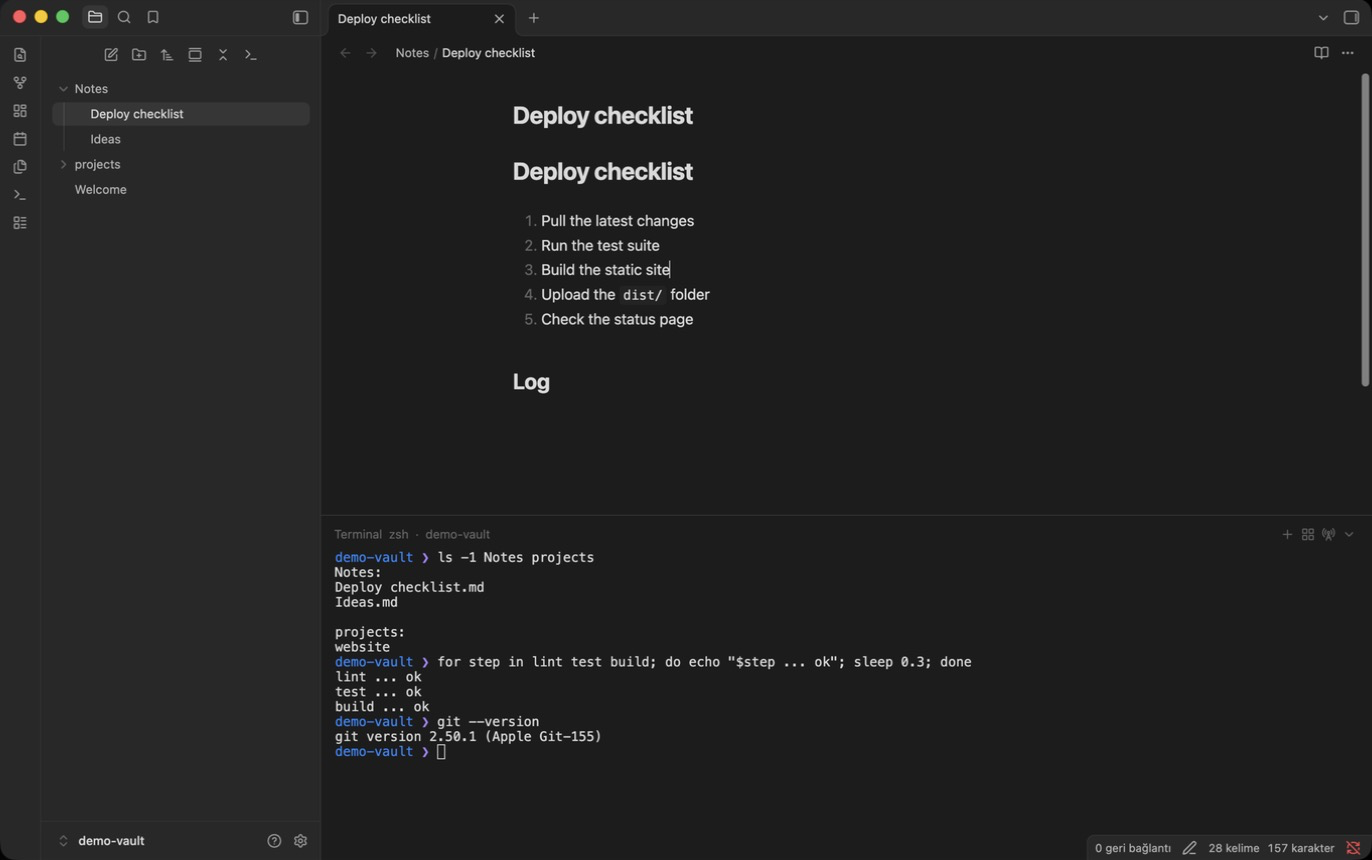
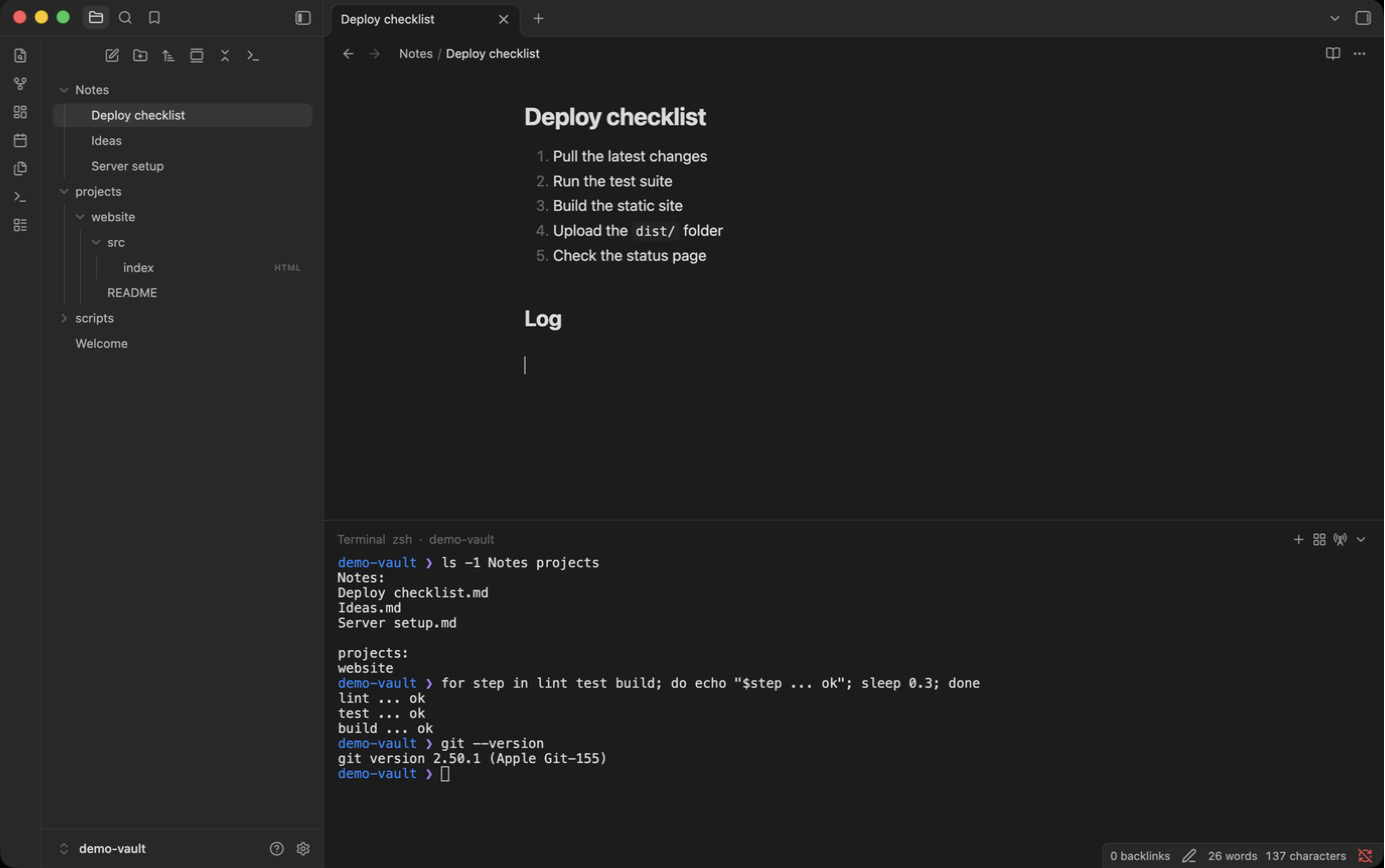
Show no default shortcut in labels, English screenshots
Labels and the settings help no longer claim Cmd/Ctrl+J since the plugin
sets no default hotkeys.

diff --git a/src/main.js b/src/main.js
@@ -44,7 +44,7 @@ const STRINGS = {
     "toolbar.new": "New terminal ({key})",
     "toolbar.layout": "Layout",
     "toolbar.close": "Close terminals",
-    "toolbar.hide": "Hide terminal ({key})",
+    "toolbar.hide": "Hide terminal",
     "toolbar.sessions": "Terminal  ·  {n} sessions",
     "tile.new": "New terminal",
     "common.broadcast": "Type into all terminals (MultiExec)",
@@ -74,8 +74,8 @@ const STRINGS = {
     "nav.button": "Terminal (right-click: Terminal Panel)",
     "nav.panel": "Terminal Panel (full-screen tab)",
     "menu.newKey": "New terminal  {key}",
-    "nav.hideKey": "Hide terminal  {key}",
-    "nav.showKey": "Show terminal  {key}",
+    "nav.hideKey": "Hide terminal",
+    "nav.showKey": "Show terminal",
     "nav.newInVault": "New terminal in vault folder",
     "common.moveBottom": "Move to bottom",
     "common.moveRight": "Move to right",
@@ -141,8 +141,8 @@ const STRINGS = {
     "set.optionMeta": "Use Option as Meta",
     "set.optionMetaDesc": "When off, Option types special/accented characters and ⌥←/→ jumps by word. When on, Option acts as an emacs-style Meta key.",
     "set.scrollback": "Scrollback lines",
-    "set.helpMac": "Cmd+J show/hide, Cmd+Shift+J move between right/bottom. Cmd+D new terminal (added to the grid), ⌥⌘+arrow switch between terminals, Ctrl-D closes that terminal. Drag the dividers to resize, double-click to equalize. ⌘F search, ⌘K clear screen, ⌘+click opens a link. ⌥←/→ word, ⌘←/→ start/end of line, ⌘⌫ deletes the line. Right-click for the menu.",
-    "set.helpOther": "Ctrl+J show/hide, Ctrl+Shift+J move between right/bottom. Ctrl+Shift+D new terminal (added to the grid), Alt+arrow switch between terminals. Ctrl+Shift+C copy, {paste} paste, Ctrl+Shift+F search, Ctrl+Shift+K clear screen, Ctrl+Shift+P command palette. While the terminal has focus, other Ctrl keys go to the shell. Ctrl+click opens a link. Right-click for the menu.",
+    "set.helpMac": "Give \"Show / hide terminal\" and \"Move terminal\" a hotkey under Settings > Hotkeys (for example Cmd+J and Cmd+Shift+J). Cmd+D new terminal (added to the grid), ⌥⌘+arrow switch between terminals, Ctrl-D closes that terminal. Drag the dividers to resize, double-click to equalize. ⌘F search, ⌘K clear screen, ⌘+click opens a link. ⌥←/→ word, ⌘←/→ start/end of line, ⌘⌫ deletes the line. Right-click for the menu.",
+    "set.helpOther": "Give \"Show / hide terminal\" and \"Move terminal\" a hotkey under Settings > Hotkeys (for example Ctrl+J and Ctrl+Shift+J). Ctrl+Shift+D new terminal (added to the grid), Alt+arrow switch between terminals. Ctrl+Shift+C copy, {paste} paste, Ctrl+Shift+F search, Ctrl+Shift+K clear screen, Ctrl+Shift+P command palette. While the terminal has focus, other Ctrl keys go to the shell. Ctrl+click opens a link. Right-click for the menu.",
   },
   tr: {
     "common.language": "Dil",
@@ -181,7 +181,7 @@ const STRINGS = {
     "toolbar.new": "Yeni terminal ({key})",
     "toolbar.layout": "Düzen",
     "toolbar.close": "Terminalleri kapat",
-    "toolbar.hide": "Terminali gizle ({key})",
+    "toolbar.hide": "Terminali gizle",
     "toolbar.sessions": "Terminal  ·  {n} oturum",
     "tile.new": "Yeni terminal",
     "common.broadcast": "Tüm terminallere yaz (MultiExec)",
@@ -211,8 +211,8 @@ const STRINGS = {
     "nav.button": "Terminal (sağ tık: Terminal Paneli)",
     "nav.panel": "Terminal Paneli (tam ekran sekme)",
     "menu.newKey": "Yeni terminal  {key}",
-    "nav.hideKey": "Terminali gizle  {key}",
-    "nav.showKey": "Terminali göster  {key}",
+    "nav.hideKey": "Terminali gizle",
+    "nav.showKey": "Terminali göster",
     "nav.newInVault": "Kasa klasöründe yeni terminal",
     "common.moveBottom": "Alta taşı",
     "common.moveRight": "Sağa taşı",
@@ -278,8 +278,8 @@ const STRINGS = {
     "set.optionMeta": "Option tuşu Meta gibi davransın",
     "set.optionMetaDesc": "Kapalıyken Option ile Türkçe/özel karakter yazılır ve ⌥←/→ kelime atlar. Açıkken Option, emacs tarzı Meta tuşu olur.",
     "set.scrollback": "Geçmiş satır sayısı",
-    "set.helpMac": "Cmd+J göster/gizle, Cmd+Shift+J sağ/alt arasında taşı. Cmd+D yeni terminal (ızgaraya eklenir), ⌥⌘+ok terminaller arası geçiş, Ctrl-D o terminali kapatır. Ayraçları sürükleyerek boyutlandır, çift tıkla eşitle. ⌘F ara, ⌘K ekranı temizle, ⌘+tık bağlantıyı açar. ⌥←/→ kelime, ⌘←/→ satır başı/sonu, ⌘⌫ satırı siler. Sağ tıkla menü.",
-    "set.helpOther": "Ctrl+J göster/gizle, Ctrl+Shift+J sağ/alt arasında taşı. Ctrl+Shift+D yeni terminal (ızgaraya eklenir), Alt+ok terminaller arası geçiş. Ctrl+Shift+C kopyala, {paste} yapıştır, Ctrl+Shift+F ara, Ctrl+Shift+K ekranı temizle, Ctrl+Shift+P komut paleti. Terminal odaktayken diğer Ctrl tuşları kabuğa gider. Ctrl+tık bağlantıyı açar. Sağ tıkla menü.",
+    "set.helpMac": "\"Terminali göster / gizle\" ve \"Terminali taşı\" komutlarına Ayarlar > Kısayollar'dan kısayol ata (örneğin Cmd+J ve Cmd+Shift+J). Cmd+D yeni terminal (ızgaraya eklenir), ⌥⌘+ok terminaller arası geçiş, Ctrl-D o terminali kapatır. Ayraçları sürükleyerek boyutlandır, çift tıkla eşitle. ⌘F ara, ⌘K ekranı temizle, ⌘+tık bağlantıyı açar. ⌥←/→ kelime, ⌘←/→ satır başı/sonu, ⌘⌫ satırı siler. Sağ tıkla menü.",
+    "set.helpOther": "\"Terminali göster / gizle\" ve \"Terminali taşı\" komutlarına Ayarlar > Kısayollar'dan kısayol ata (örneğin Ctrl+J ve Ctrl+Shift+J). Ctrl+Shift+D yeni terminal (ızgaraya eklenir), Alt+ok terminaller arası geçiş. Ctrl+Shift+C kopyala, {paste} yapıştır, Ctrl+Shift+F ara, Ctrl+Shift+K ekranı temizle, Ctrl+Shift+P komut paleti. Terminal odaktayken diğer Ctrl tuşları kabuğa gider. Ctrl+tık bağlantıyı açar. Sağ tıkla menü.",
   },
 };
 let uiLang = "en";
@@ -1355,7 +1355,7 @@ class EcuTerminalView extends ItemView {
     this.layoutBtn = tool("layout-grid", t("toolbar.layout"), (e) => this.layoutMenu(e));
     this.broadcastBtn = tool("radio-tower", t("common.broadcast"), () => this.setBroadcast(!this.broadcast), "ecu-broadcast-btn");
     this.closeBtn = tool("x", t("toolbar.close"), (e) => this.closeMenu(e));
-    this.hideBtn = tool("chevron-down", t("toolbar.hide", { key: KEY.toggle }), () => this.plugin.toggle());
+    this.hideBtn = tool("chevron-down", t("toolbar.hide"), () => this.plugin.toggle());
     this.gridEl = root.createDiv({ cls: "ecu-grid" });
     setTimeout(() => this.hideBtn && this.hideBtn.toggle(!this.isPanel), 0);
     this.ro = new ResizeObserver(() => {
@@ -1910,7 +1910,7 @@ module.exports = class EcuTerminal extends Plugin {
     menu.addItem((i) => i.setTitle(t("menu.newKey", { key: KEY.split })).setIcon("plus").onClick(() => this.split()));
     if (sessions.length > 1) menu.addItem((i) => i.setTitle(t("common.closeAllN", { n: sessions.length })).setIcon("x-square").onClick(() => v.closeMany(null)));
     menu.addSeparator();
-    menu.addItem((i) => i.setTitle(open ? t("nav.hideKey", { key: KEY.toggle }) : t("nav.showKey", { key: KEY.toggle })).setIcon(open ? "eye-off" : "terminal").onClick(() => this.toggle()));
+    menu.addItem((i) => i.setTitle(open ? t("nav.hideKey") : t("nav.showKey")).setIcon(open ? "eye-off" : "terminal").onClick(() => this.toggle()));
     menu.addItem((i) => i.setTitle(t("nav.newInVault")).setIcon("folder-open").onClick(() => this.openAt(null)));
     if (v && v.sessions) {
       menu.addSeparator();
